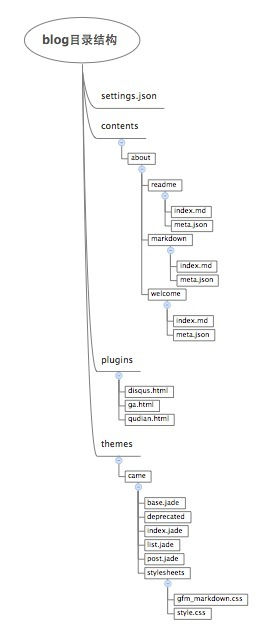
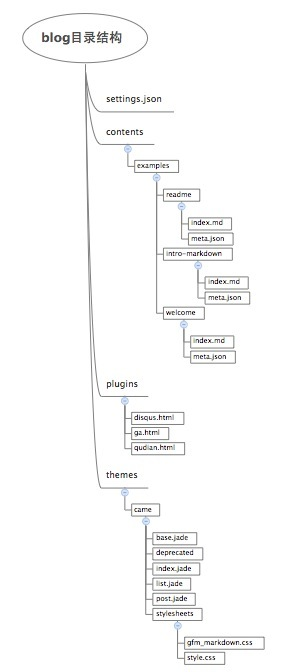
update README

Changed region(s): [[0.058, 0.0, 0.8986, 1.0]]

diff --git a/README.md b/README.md
@@ -2,47 +2,83 @@
 [![Build Status](https://travis-ci.org/CatTail/catlog.png?branch=develop)](https://travis-ci.org/CatTail/catlog)
 
 ## Introduction
-Catlog is a static site generator. It allow user to use markdown syntax to write post and publish it with html format. Catlog has a inner test server to allow you see post result after write it. It also support for self theme and plugin definition.
+Catlog is a static site generator. It allow users to use markdown syntax to write blog article and publish it with html format. Catlog has a inner test server to allow you see your blog after write it. It also support for self theme and plugin definition.
 
 Live demo [blog.cattail.me](http://blog.cattail.me)
 
-## Installation
-Simply type `npm install -g catlogjs` in console.
+## Quick-start
+First install catlog with npm:
 
-## Usage
-Type `catlog -h` in console, it will tell you how to use catlog.
-```
-Usage: catlog.coffee [options] [command]
-
-Commands:
-
-  init                   initialize project
-  migrate <path>         migrate already exist markdown file into catlog accepted directory construct
-  post                   generate post
-  generate               generate assets and html files
-
-Options:
-
-  -h, --help          output usage information
-  -V, --version       output the version number
-  -s --server [port]  start local server on port
-  -a --auto           watch for file change and auto update
+```bash
+$ npm install -g catlogjs
 ```
 
-### init
-Go to directory you want to create the blog, type `catlog init`, it will create  such directory structure `plugins  post  _post  settings.json  themes`. Change settings.json as you wish.
+This will install catlog globally on your system so that you can access the catlog command from anywhere. Once that you can view help:
 
-### migrate
-If you already have a lot of markdown post files and want to migrate them into catlog blog structure, using `catlog migrate <path>`. It will prompt lost meta information needed for every markdown files.
+```bash
+$ catlog -h
+```
+	
+it will tell you how to use catlog.
 
-### post
-Want to create an new post? Fine, using `catlog post`. For the reason that catlog blog structure contain the meta info of posts, do not change the directory structure without knowning what it means. `post` command will handle this properly for you.
+Create a directory for your website, get inside of it, and initialize an empty catlog project:
+	
+```bash
+$ mkdir my-website
+$ cd my-website
+$ catlog init
+```
 
-### generate
-When you finish writing post and want to see the result, using `catlog generate` to generate html files.
+This creates a skeleton site with a basic set of templates.
 
-### options
-If you need local server add `--server` options, with `--auto` option added, change made in markdown file will auto re-generated into html.
+
+Want to create an new blog? 
+
+```bash
+$ catlog publish
+```
+	
+then you will need to provide some info for it.
+
+```bash
+write your article name: 文章名称
+choose article category: 选择已创建类别，或者创建新的类别（这会给你在网站上添加一个新的导航项)
+input new permalink title: 固定链接，为了美观，请尽量使用英文
+input author name: 文章作者名
+```
+		
+when done, you will have a subdirectory in contents folder: contents/category_name/permalink_title.There will be a index.md and a meta.json file. The index.md is where you write your article, and the meta.json file holds some info of your article.
+	
+The catlog blog structure contain the meta info of articles, do not change the directory structure without knowning what it means. `publish` command will handle this properly for you.
+
+If you already have a lot of markdown article files and want to migrate them into catlog blog structure, run:
+
+```bash
+$ catlog migrate <path> 
+```
+
+It will prompt lost meta information needed for every markdown files.
+
+When you finish writing article and want to preview it on local server, you should run:
+
+```bash
+$ catlog preview [-s] [-a] 
+	
+options:
+	
+	-s [port]: start local server on port,the default port is 8080.
+	-a: watch for file change and auto update
+	--server [port]: the same effect as -s [port]
+	--auto: the same effect as -a
+```
+
+Then you can build your site.
+
+```bash
+$ catlog build 
+```
+
+This generates your site and places it in the build/ directory - all ready to be copied to your web server!
 
 ## Theme
 ### environment
@@ -79,6 +115,42 @@ If you need local server add `--server` options, with `--auto` option added, cha
 could have self-defined variables
 
 ## Plugin
+Catlog itself bring with three plugins:
+
+* [Google Analytics](http://www.google.com/analytics/)
+* [Disqus](http://disqus.com/)
+* [Qudian](http://qudian.so/)
+
+In your website root directory, change settings.json `plugins` field.  Following is a example configuration file 
+
+```json
+{
+  "source": ".contents",
+  "destination": "build",
+  "permalink_style": "date",
+  "base_url": "/",
+  "about_url": "http://about.me/cattail",
+  "port": "8081",
+  "author": "CatTail",
+  "site_title": "Catblog",
+  "site_url": "http://blog.cattail.me",
+  "description": "",
+  "theme": "came",
+  "plugins": {
+    "ga": {
+      "trackingID": "UA-41494270-1",
+      "domain": "cattail.me"
+    },
+    "disqus": {
+      "disqus_shortname": "cattail"
+    },
+    "qudian": {
+      "auth_key_id": "1362799309",
+      "auth_key_secret": "44fc9ea58e1697c85506d305a20dbfea"
+    }
+  }
+}
+```
 
 ## ChangeLog
 * 增加静态html文件的直接发布
@@ -107,3 +179,6 @@ could have self-defined variables
 * 完善came样式(完善设计, 样式, 时间等)
 * 相册
 * 支持其他类型文件(除了md, 包括html, add lab)的转换
+
+
+

diff --git a/assets/examples/readme/index.md b/assets/examples/readme/index.md
@@ -2,7 +2,7 @@
 [![Build Status](https://travis-ci.org/CatTail/catlog.png?branch=develop)](https://travis-ci.org/CatTail/catlog)
 
 ## Introduction
-Catlog is a static site generator. It allow users to use markdown syntax to write post and publish it with html format. Catlog has a inner test server to allow you see post result after write it. It also support for self theme and plugin definition.
+Catlog is a static site generator. It allow users to use markdown syntax to write blog article and publish it with html format. Catlog has a inner test server to allow you see your blog after write it. It also support for self theme and plugin definition.
 
 Live demo [blog.cattail.me](http://blog.cattail.me)
 
@@ -32,26 +32,26 @@ $ catlog init
 This creates a skeleton site with a basic set of templates.
 
 
-Want to create an new post? 
+Want to create an new blog? 
 
 ```bash
-$ catlog post
+$ catlog publish
 ```
 	
 then you will need to provide some info for it.
 
 ```bash
-postname: 文章名称
-category: 选择已创建类别，或者创建新的类别（这会给你在网站上添加一个新的导航项)
-author(blank to use default settings): 文章作者名
-permalink title: 固定链接，为了美观，请尽量使用英文
+write your article name: 文章名称
+choose article category: 选择已创建类别，或者创建新的类别（这会给你在网站上添加一个新的导航项)
+input new permalink title: 固定链接，为了美观，请尽量使用英文
+input author name: 文章作者名
 ```
 		
-when done, you will have a subdirectory in post folder: post/category_name/permalink_title.There will be a index.md and a meta.json file. The index.md is where you write your post, and the meta.json file holds some info of your post.
+when done, you will have a subdirectory in contents folder: contents/category_name/permalink_title.There will be a index.md and a meta.json file. The index.md is where you write your article, and the meta.json file holds some info of your article.
 	
-The catlog blog structure contain the meta info of posts, do not change the directory structure without knowning what it means. `post` command will handle this properly for you.
+The catlog blog structure contain the meta info of articles, do not change the directory structure without knowning what it means. `publish` command will handle this properly for you.
 
-If you already have a lot of markdown post files and want to migrate them into catlog blog structure, run:
+If you already have a lot of markdown article files and want to migrate them into catlog blog structure, run:
 
 ```bash
 $ catlog migrate <path> 
@@ -59,7 +59,7 @@ $ catlog migrate <path>
 
 It will prompt lost meta information needed for every markdown files.
 
-When you finish writing post and want to preview it on local server, you should run:
+When you finish writing article and want to preview it on local server, you should run:
 
 ```bash
 $ catlog preview [-s] [-a] 
@@ -125,8 +125,8 @@ In your website root directory, change settings.json `plugins` field.  Following
 
 ```json
 {
-  "source": "./post",
-  "destination": "_post",
+  "source": ".contents",
+  "destination": "build",
   "permalink_style": "date",
   "base_url": "/",
   "about_url": "http://about.me/cattail",
@@ -179,3 +179,6 @@ In your website root directory, change settings.json `plugins` field.  Following
 * 完善came样式(完善设计, 样式, 时间等)
 * 相册
 * 支持其他类型文件(除了md, 包括html, add lab)的转换
+
+
+
